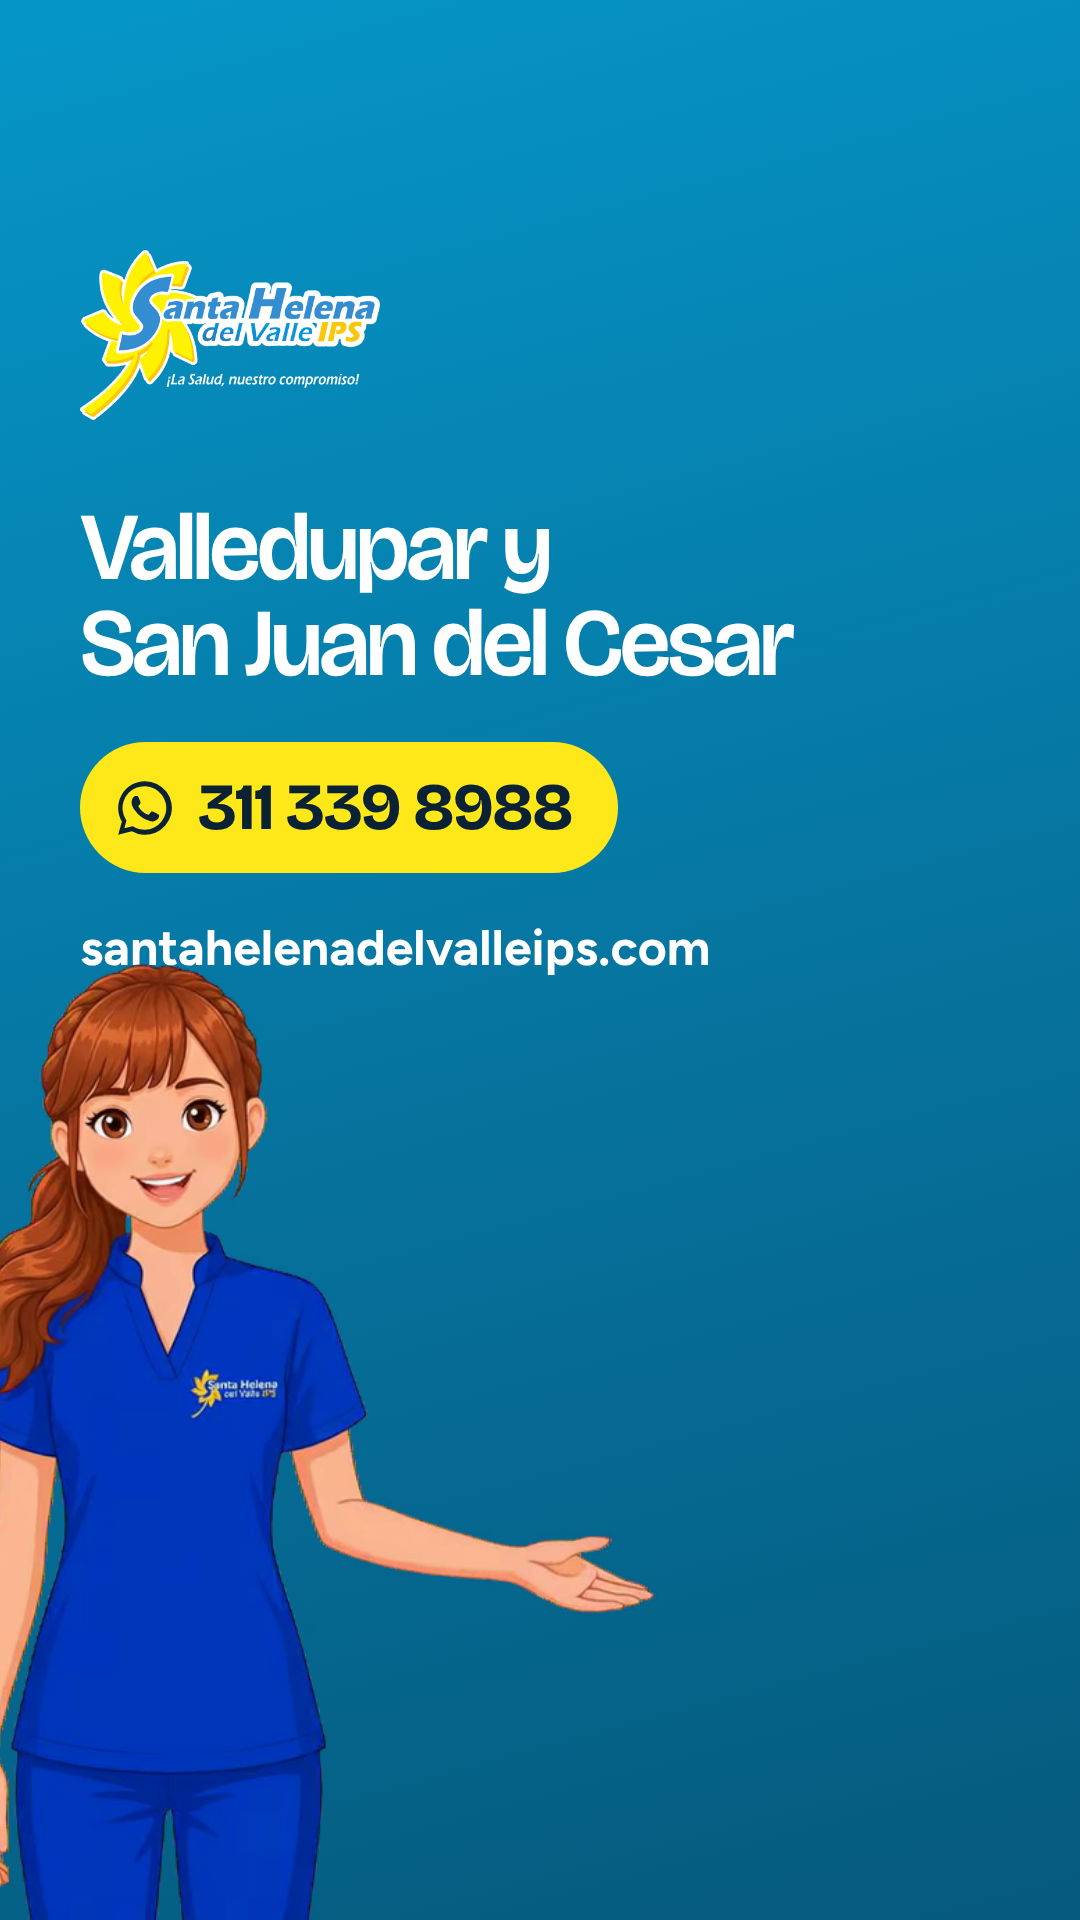
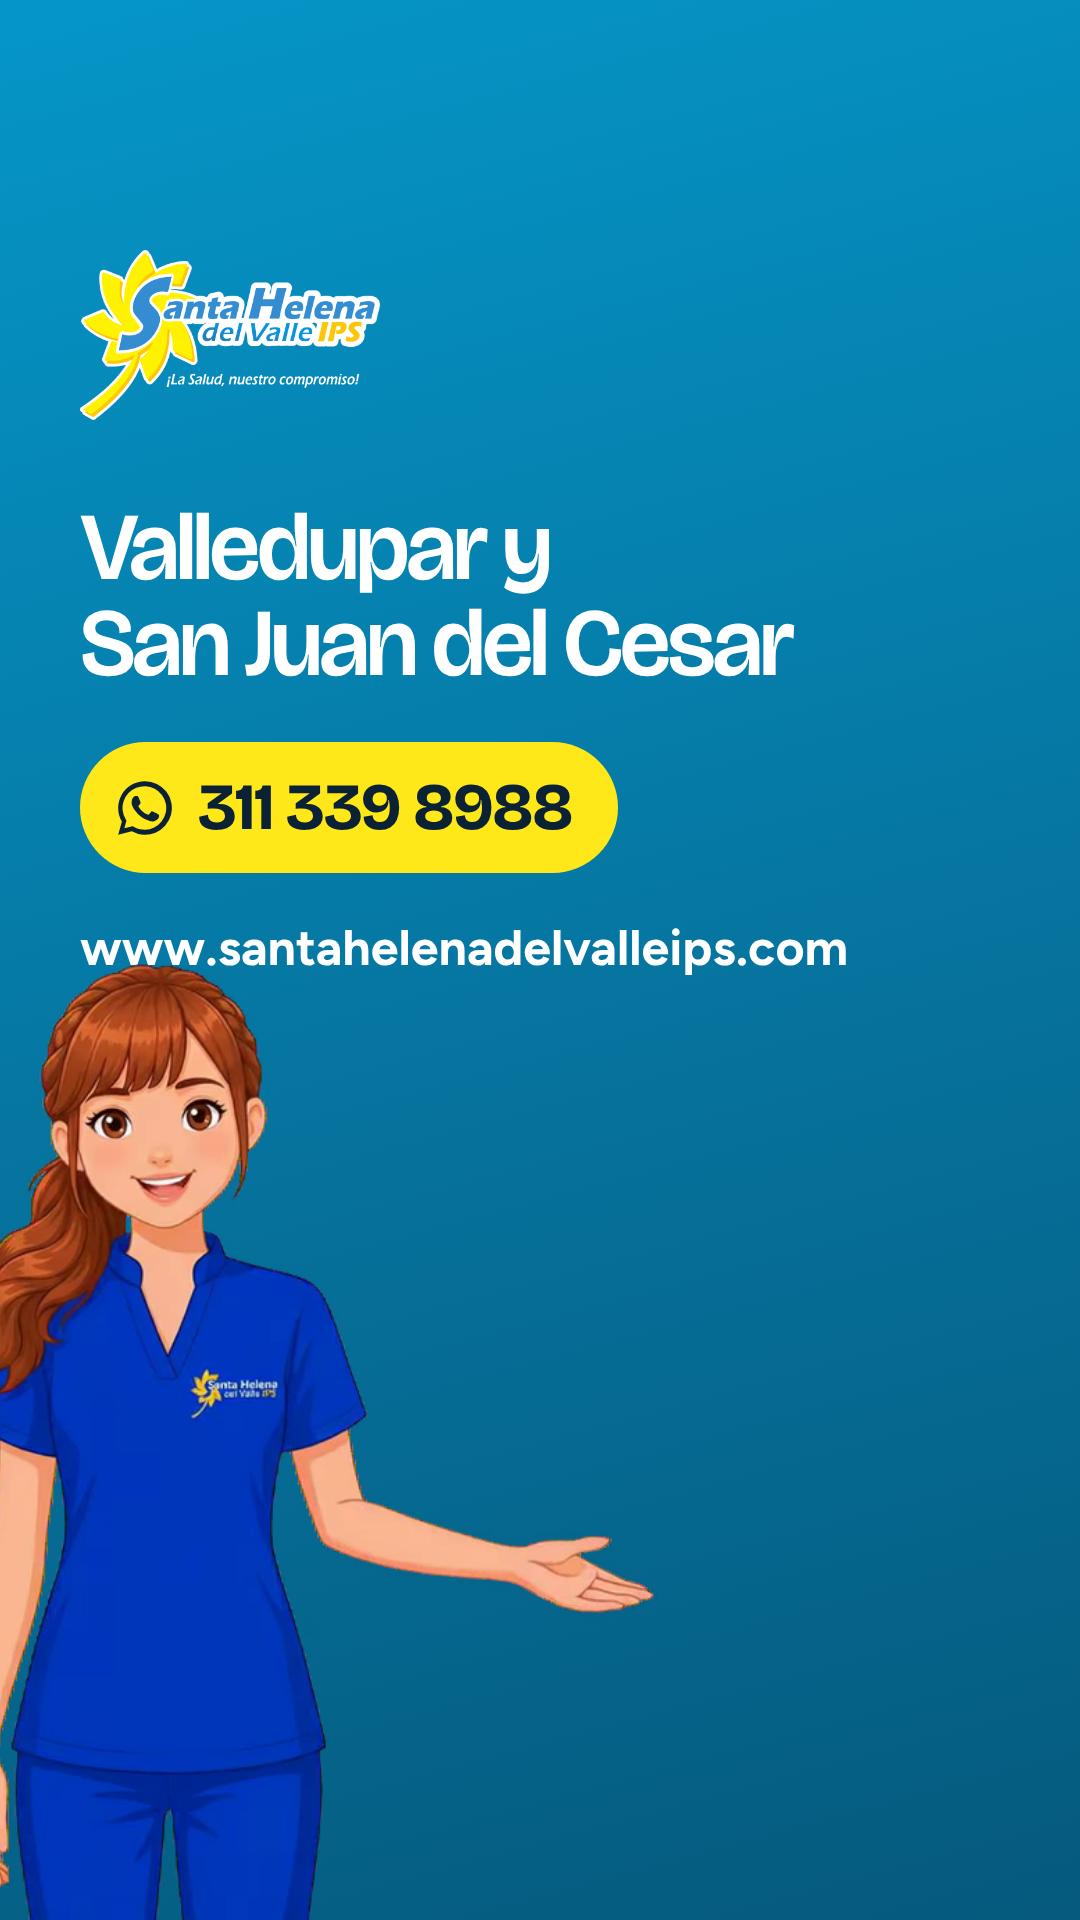
Tamizaje: historia 3 con www en la dirección web
Claude-Session: https://claude.ai/code/session_01KgBCaN2Nb7mn6jAyyriR7q

Changed region(s): [[0.0611, 0.4688, 0.7944, 0.5]]

diff --git a/entregas/creativo-instagram/2026-11-14-tamizaje-cuello-uterino/fuente/piezas.html b/entregas/creativo-instagram/2026-11-14-tamizaje-cuello-uterino/fuente/piezas.html
@@ -58,7 +58,7 @@ h1,h2{font-family:"Bricolage Grotesque";font-weight:600;letter-spacing:-.035em;l
       <svg viewBox="0 0 32 32" width="66" height="66"><path fill="#0A2233" d="M16 3a13 13 0 0 0-11.2 19.6L3 29l6.6-1.7A13 13 0 1 0 16 3zm0 23.6c-2 0-4-.6-5.7-1.6l-.4-.2-3.9 1 1-3.8-.3-.4A10.6 10.6 0 1 1 16 26.6zm5.8-7.9c-.3-.2-1.9-.9-2.2-1-.3-.1-.5-.2-.7.2l-1 1.2c-.2.2-.4.2-.7.1a8.7 8.7 0 0 1-4.3-3.8c-.3-.6.3-.5.9-1.7.1-.2 0-.4 0-.6l-1-2.4c-.3-.6-.5-.5-.7-.5h-.6c-.2 0-.6.1-.9.4-.3.3-1.1 1.1-1.1 2.7s1.2 3.2 1.3 3.4c.2.2 2.3 3.5 5.6 4.9 2.1.9 2.9 1 4 .8.6-.1 1.9-.8 2.2-1.5.3-.8.3-1.4.2-1.5-.1-.2-.3-.3-.6-.4z"/></svg>
       311 339 8988
     </div>
-    <p style="margin-top:44px;font-size:50px;font-weight:700;color:#fff">santahelenadelvalleips.com</p>
+    <p style="margin-top:44px;font-size:50px;font-weight:700;color:#fff">www.santahelenadelvalleips.com</p>
   </div>
   <!-- espacio libre para el sticker de enlace (zona derecha, a la altura de la mano de Helenita) -->
   <img class="hel" src="img/helenita-invitar.png" style="left:-330px;width:1000px;height:1000px">
